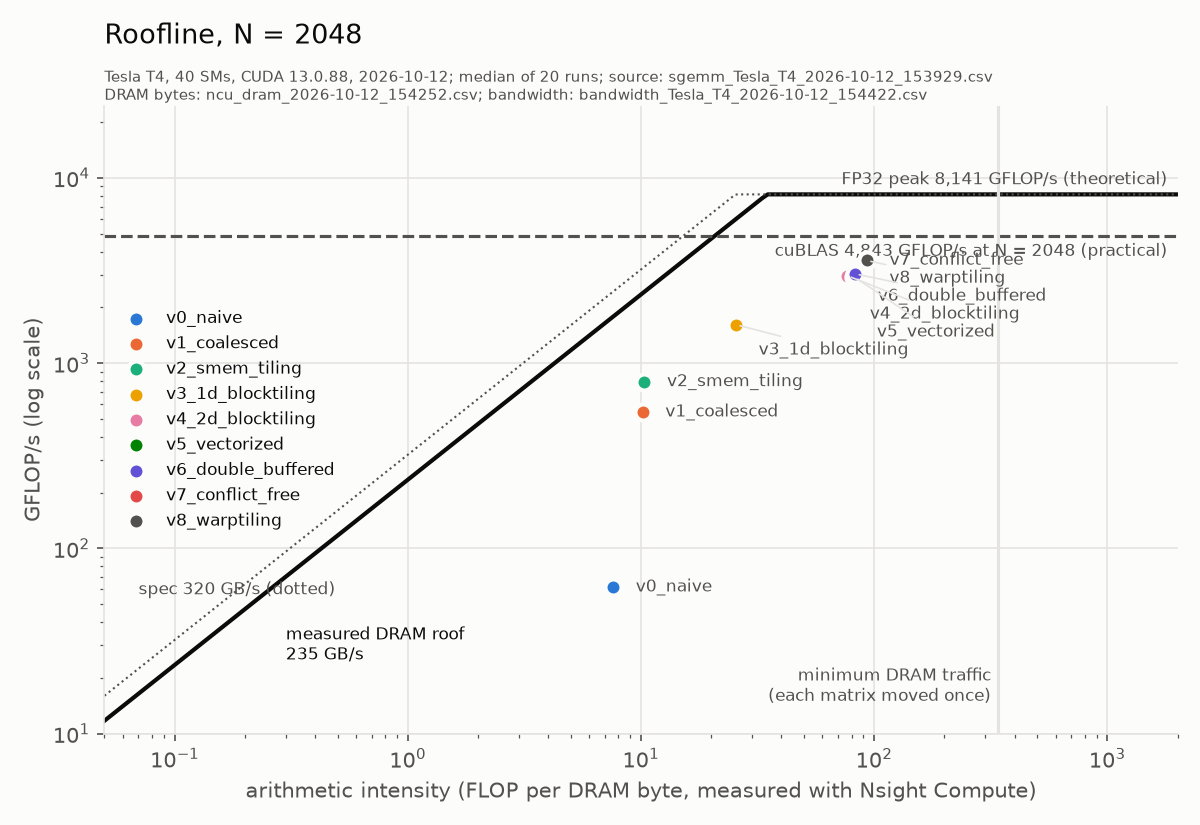
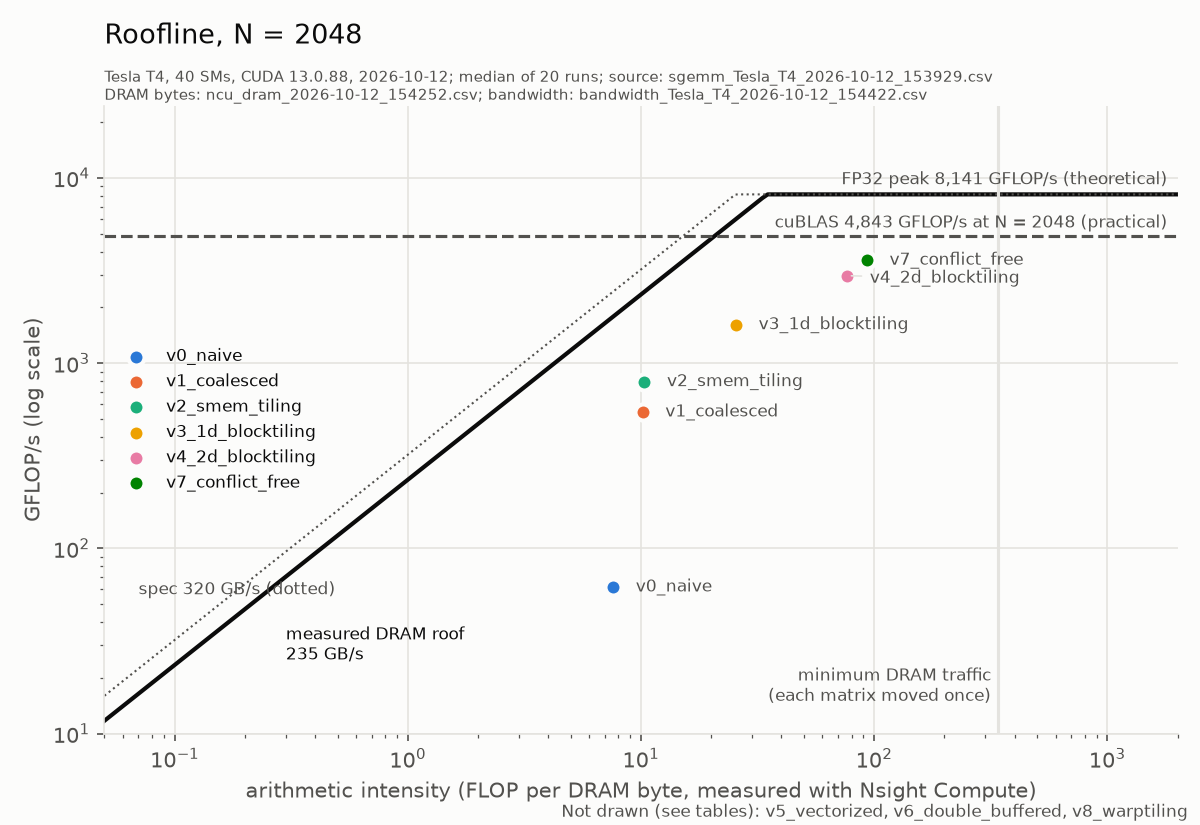
feat: v9 autotuned dispatch (table generated from tuning CSV), tensor-core run cell, chart legibility

Changed region(s): [[0.0925, 0.3636, 0.2775, 0.6364], [0.6167, 0.2424, 0.9558, 0.4242], [0.4625, 0.9697, 0.9867, 1.0]]

diff --git a/scripts/plot.py b/scripts/plot.py
@@ -21,9 +21,18 @@ import matplotlib.pyplot as plt
 from results_io import (FIGURES, KERNEL_ORDER, kernels_in, load_bandwidth, load_ncu, load_run,
                         parse_args, peak_fp32_gflops)
 
-# Reference categorical palette (light mode), fixed slot per kernel in KERNEL_ORDER.
+# Reference categorical palette (light mode): 8 validated slots. Line and roofline charts show a
+# fixed set of key kernels (the in-between versions sit almost on top of a neighbour and would
+# need more hues than the palette has); every kernel is in the bar chart and the tables.
 SLOTS = ["#2a78d6", "#eb6834", "#1baf7a", "#eda100", "#e87ba4", "#008300", "#6250d6", "#e34948"]
-COLOR = dict(zip(KERNEL_ORDER, SLOTS))
+PLOTTED = ["v0_naive", "v1_coalesced", "v2_smem_tiling", "v3_1d_blocktiling",
+           "v4_2d_blocktiling", "v7_conflict_free", "v9_autotuned"]
+COLOR = dict(zip(PLOTTED, SLOTS))
+
+
+def omitted_note(ks):
+    left = [k for k in ks if k not in PLOTTED]
+    return ("Not drawn (see tables): " + ", ".join(left)) if left else ""
 SURFACE, INK, INK2, GRID = "#fcfcfb", "#0b0b0b", "#52514e", "#e4e3df"
 REF = "#52514e"  # cuBLAS reference line: neutral ink, not a category color
 
@@ -83,7 +92,7 @@ def gflops_vs_size(df, env, csv_path):
     ax.plot(ref.M, ref.gflops, color=REF, lw=2, ls="--", marker="o", ms=5, label="cuBLAS")
     ends = [("cuBLAS", ref.M.iloc[-1], ref.gflops.iloc[-1])]
 
-    for k in kernels_in(ok):
+    for k in [k for k in kernels_in(ok) if k in PLOTTED]:
         d = ok[(ok.kernel == k) & ok.M.isin(sizes)].sort_values("M")
         if d.empty:
             continue
@@ -100,6 +109,7 @@ def gflops_vs_size(df, env, csv_path):
     ax.set_title("SGEMM throughput vs size", loc="left", fontsize=13, color=INK, pad=18)
     ax.text(0, 1.01, subtitle(env, csv_path), transform=ax.transAxes, fontsize=8, color=INK2)
     ax.legend(loc="upper left", fontsize=9)
+    fig.text(0.99, 0.01, omitted_note(kernels_in(ok)), ha="right", fontsize=8, color=INK2)
     failure_note(fig, df)
     fig.tight_layout()
     out = FIGURES / "gflops_vs_size.png"
@@ -167,8 +177,8 @@ def roofline(df, env, csv_path):
     ax.axvline(ideal_ai, color=GRID, lw=1.5)
     ax.text(x[1], peak * 1.08, f"FP32 peak {peak:,.0f} GFLOP/s (theoretical)  ", ha="right",
             va="bottom", color=INK2, fontsize=8)
-    ax.text(x[1], cublas * 0.92, f"cuBLAS {cublas:,.0f} GFLOP/s at N = {n} (practical)  ",
-            ha="right", va="top", color=INK2, fontsize=8)
+    ax.text(x[1], cublas * 1.06, f"cuBLAS {cublas:,.0f} GFLOP/s at N = {n} (practical)  ",
+            ha="right", va="bottom", color=INK2, fontsize=8)
     ax.text(0.3, 0.3 * mem_roof * 0.55, f"measured DRAM roof\n{mem_roof:.0f} GB/s", ha="left",
             va="top", color=INK, fontsize=8)
     ax.text(0.07, 0.07 * theo_bw * 2.4, f"spec {theo_bw:.0f} GB/s (dotted)", ha="left",
@@ -177,7 +187,7 @@ def roofline(df, env, csv_path):
             va="bottom", color=INK2, fontsize=8)
 
     placed = []
-    for k in kernels_in(at_n):
+    for k in [k for k in kernels_in(at_n) if k in PLOTTED]:
         if k not in ncu.index:
             continue
         r = ncu.loc[k]
@@ -215,6 +225,7 @@ def roofline(df, env, csv_path):
             f"bandwidth: {bw_path.name}", transform=ax.transAxes, fontsize=7, color=INK2)
     if placed:
         ax.legend(loc="center left", fontsize=8)
+    fig.text(0.99, 0.01, omitted_note(kernels_in(at_n)), ha="right", fontsize=8, color=INK2)
     failure_note(fig, df)
     fig.tight_layout()
     out = FIGURES / "roofline.png"

diff --git a/scripts/gen_dispatch.py b/scripts/gen_dispatch.py
@@ -1,0 +1,48 @@
+"""Generates src/kernels/v9_dispatch_table.inc from the newest tuning run.
+
+For every size in results/tune_sgemm_*.csv it picks the configuration with the highest % of
+paired cuBLAS, among configurations that passed the cuBLAS check at EVERY size (a config that
+failed anywhere is never dispatched). v9_autotuned.cu #includes the table; at run time it uses
+the entry whose size is closest (in log scale) to cbrt(M*N*K).
+
+The winning numbers in the tuning run are biased upward (best of many noisy measurements), so
+bench measures v9 again, independently; only that measurement is reported for v9.
+
+Usage: .venv/Scripts/python scripts/gen_dispatch.py [--csv results/tune_sgemm_....csv]
+"""
+import argparse
+from pathlib import Path
+
+import pandas as pd
+
+from results_io import RESULTS, ROOT, newest
+
+OUT = ROOT / "src" / "kernels" / "v9_dispatch_table.inc"
+
+
+def main():
+    ap = argparse.ArgumentParser(description=__doc__.splitlines()[0])
+    ap.add_argument("--csv", type=Path)
+    path = ap.parse_args().csv or newest("tune_sgemm_*.csv")
+    if path is None:
+        raise SystemExit("no results/tune_sgemm_*.csv")
+    t = pd.read_csv(path)
+    t = t[t.kernel != "cublas"]
+    failed = set(t[t.status != "PASS"].kernel)
+    ok = t[~t.kernel.isin(failed)]
+    lines = [f"// GENERATED by scripts/gen_dispatch.py from results/{Path(path).name}.",
+             "// Do not edit: rerun the script after a new tuning run.",
+             "// {size, config}: best % of paired cuBLAS at that size in the tuning run."]
+    for n in sorted(ok.M.unique()):
+        g = ok[ok.M == n]
+        b = g.loc[g.pct_cublas.idxmax()]
+        lines.append(f'{{{int(n)}, "{b.kernel}"}},  // {b.pct_cublas:.1f}% in the tuning run')
+    if failed:
+        lines.append("// excluded (failed the cuBLAS check somewhere): " + ", ".join(sorted(failed)))
+    OUT.write_text("\n".join(lines) + "\n", encoding="utf-8")
+    print("\n".join(lines))
+    print("wrote", OUT.relative_to(ROOT))
+
+
+if __name__ == "__main__":
+    main()

diff --git a/scripts/results_io.py b/scripts/results_io.py
@@ -18,7 +18,7 @@ FIGURES = ROOT / "figures"
 # adding a kernel later never repaints the existing ones.
 KERNEL_ORDER = ["v0_naive", "v1_coalesced", "v2_smem_tiling", "v3_1d_blocktiling",
                 "v4_2d_blocktiling", "v5_vectorized", "v6_double_buffered", "v7_conflict_free",
-                "v8_warptiling"]
+                "v8_warptiling", "v9_autotuned"]
 
 
 def parse_args(description):
@@ -75,6 +75,7 @@ def load_bandwidth():
     return (pd.read_csv(p), p) if p else (None, None)
 
 
+TC_KERNELS = ["tc0_wmma_naive", "tc1_wmma_smem"]
 V7_DEFAULT = (128, 128, 8, 8, 8)
 V8_DEFAULT = (128, 128, 8, 64, 32, 2, 2)
 
@@ -96,6 +97,9 @@ def bench_name(kernel_symbol):
         d = tuple(int(g) for g in m.groups() if g is not None)
         return ("v8_warptiling" if d == V8_DEFAULT
                 else "v8_{}x{}x{}_w{}x{}_{}x{}".format(*d))
+    for name in TC_KERNELS:  # tensor-core track: symbol is <name>_kernel
+        if name in s:
+            return name
     for name in sorted(KERNEL_ORDER, key=len, reverse=True):  # known names first
         if "sgemm_" + name in s:
             return name

diff --git a/src/kernels/kernels.h b/src/kernels/kernels.h
@@ -38,6 +38,9 @@ void launch_v8_warptiling(int M, int N, int K, const float* A, const float* B, f
 KernelResources resources_v8_warptiling();
 const std::vector<TuneConfig>& v8_tune_configs();
 
+void launch_v9_autotuned(int M, int N, int K, const float* A, const float* B, float* C);
+KernelResources resources_v9_autotuned();
+
 // Tensor-core track (bench --tc): FP16 inputs, FP32 accumulation, WMMA. Sizes: multiples of 128.
 void launch_tc0_wmma_naive(int M, int N, int K, const half* A, const half* B, float* C);
 void launch_tc1_wmma_smem(int M, int N, int K, const half* A, const half* B, float* C);
